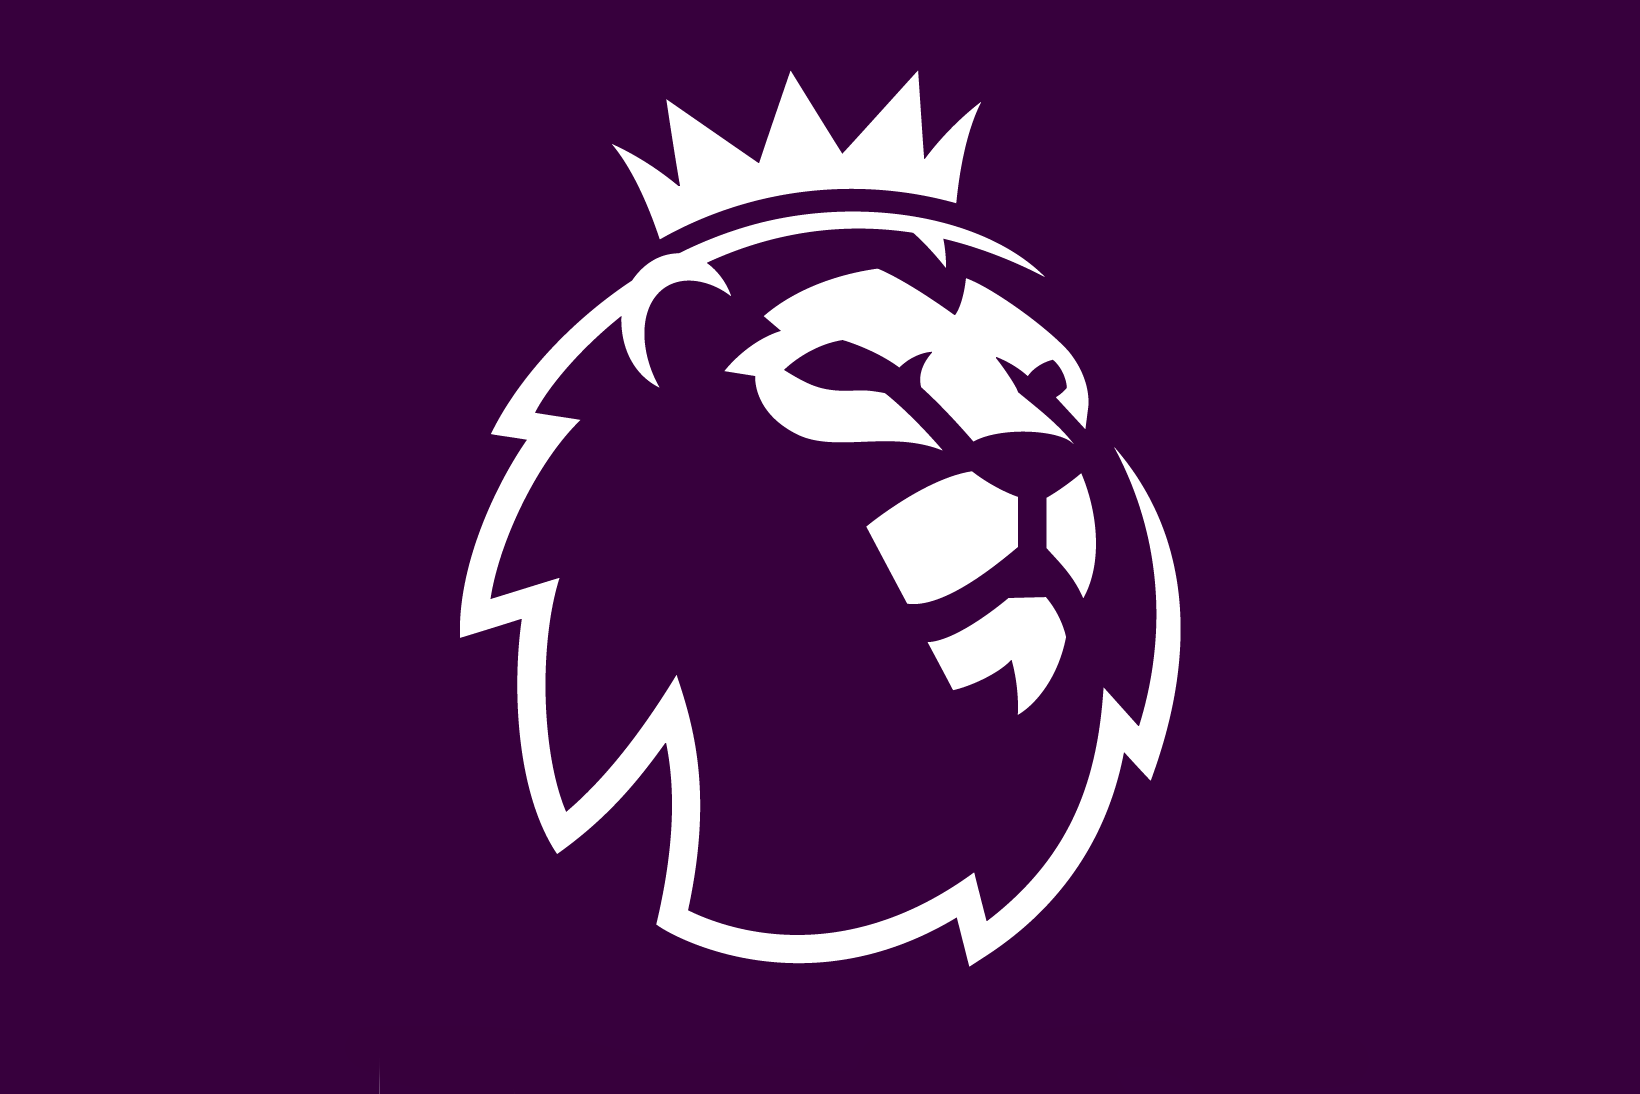
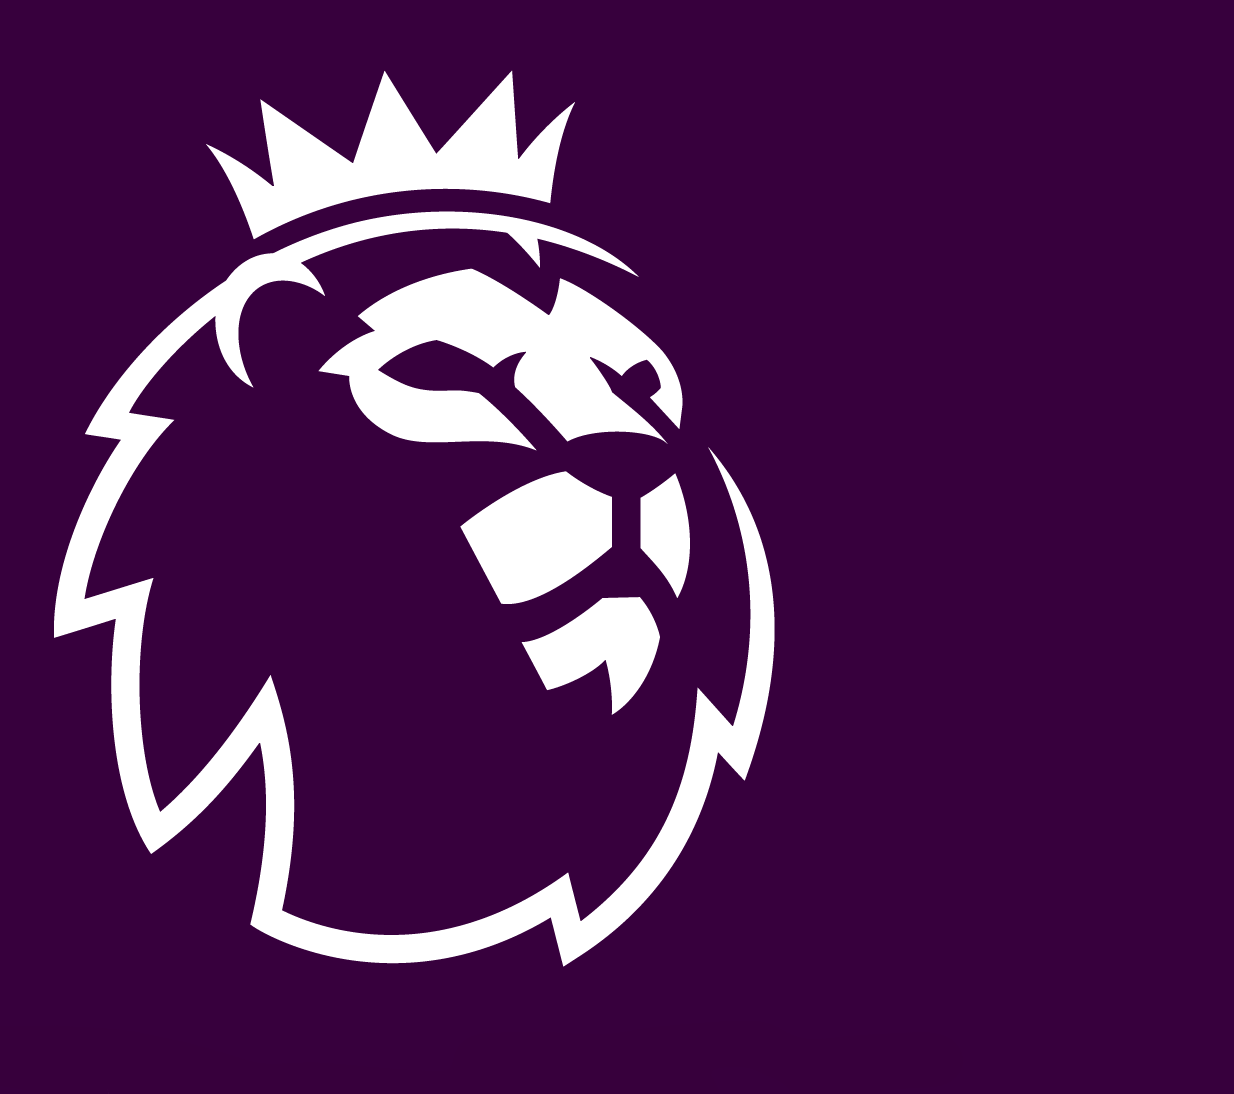
styling is progressing well

Changed region(s): [[0.0308, 0.0622, 0.7391, 0.9013]]

diff --git a/coursework-gui-javafx/out/production/coursework-gui-javafx/oop/cw/guifx/style.css b/coursework-gui-javafx/out/production/coursework-gui-javafx/oop/cw/guifx/style.css
@@ -1,0 +1,23 @@
+.table-view {
+    -fx-border-color: '#f00';
+}
+
+.table-view .column-header .label {
+    -fx-text-fill: '43134c';
+}
+
+.table-view .column-header-background {
+    -fx-background-color: '62ffa4';
+}
+
+.table-view .column-header {
+    -fx-background-color: transparent;
+}
+
+.table-view .table-cell{
+    -fx-border-color: transparent;
+}
+
+.table-view .table-cell: hover {
+    -fx-text-background-color: 'f00';
+}

diff --git a/coursework-gui-javafx/src/oop/cw/guifx/style.css b/coursework-gui-javafx/src/oop/cw/guifx/style.css
@@ -1,0 +1,23 @@
+.table-view {
+    -fx-border-color: '#f00';
+}
+
+.table-view .column-header .label {
+    -fx-text-fill: '43134c';
+}
+
+.table-view .column-header-background {
+    -fx-background-color: '62ffa4';
+}
+
+.table-view .column-header {
+    -fx-background-color: transparent;
+}
+
+.table-view .table-cell{
+    -fx-border-color: transparent;
+}
+
+.table-view .table-cell: hover {
+    -fx-text-background-color: 'f00';
+}

diff --git a/coursework-gui-javafx/src/oop/cw/guifx/GuiElements.java b/coursework-gui-javafx/src/oop/cw/guifx/GuiElements.java
@@ -1,11 +1,14 @@
 package oop.cw.guifx;
 
 import javafx.beans.property.SimpleStringProperty;
+import javafx.scene.Scene;
 import javafx.scene.control.TableColumn;
 import javafx.scene.control.TableView;
 import javafx.scene.control.cell.PropertyValueFactory;
+import javafx.scene.image.Image;
+import javafx.scene.image.ImageView;
 import javafx.scene.layout.AnchorPane;
-import javafx.scene.layout.VBox;
+import javafx.scene.layout.StackPane;
 
 import java.util.ArrayList;
 import java.util.Arrays;
@@ -13,23 +16,27 @@ import java.util.List;
 
 public class GuiElements {
     public static AnchorPane anchor(){
-        return new AnchorPane();
+        AnchorPane anchorPane = new AnchorPane();
+        anchorPane.setStyle("-fx-background-color: #37003d; -fx-border-color: #f00;");
+        return anchorPane;
     }
 
-    public static VBox vbox(int minWidth) {
-        VBox vBox = new VBox();
-        vBox.setMinWidth(minWidth);
-        return vBox;
+    public static StackPane stackPane(int width, int height) {
+        StackPane stackPane = new StackPane();
+        stackPane.setMinHeight(height);
+        stackPane.setMinWidth(width);
+        return stackPane;
     }
 
-    private static TableColumn<FootballClub, String> tableColumns(TableView<FootballClub> tableView, String columnName, double columnWidthMultiplier) {
-        TableColumn<FootballClub, String> column = new TableColumn<>(columnName);
-        column.prefWidthProperty().bind(tableView.widthProperty().multiply(columnWidthMultiplier));
-        column.setResizable(false);
-        return column;
+    public Scene scene(AnchorPane anchorPane, int width, int height, String file) {
+        Scene scene = new Scene(anchorPane, width, height);
+        String css = this.getClass().getResource(file).toExternalForm();
+        scene.getStylesheets().add(css);
+        return scene;
     }
 
-    public static List<TableColumn<FootballClub, String>> generateTableColumns(TableView<FootballClub> tableView) {
+    public static List<TableColumn<FootballClub, String>> generatePointsTableColumns(TableView<FootballClub> tableView) {
+        tableView.setMinHeight(500);
         TableColumn<FootballClub, String> columnClub = GuiElements.tableColumns(tableView, "Club", 0.3);
         columnClub.setCellValueFactory(new PropertyValueFactory<>("clubName"));
 
@@ -63,7 +70,7 @@ public class GuiElements {
                 new SimpleStringProperty(String.valueOf(cellData.getValue().getFootballClubTotalStatistics().getGoalsAgainst()))
         );
 
-        TableColumn<FootballClub, String> columnGoalDifference = GuiElements.tableColumns(tableView, "GD", 0.085);
+        TableColumn<FootballClub, String> columnGoalDifference = GuiElements.tableColumns(tableView, "GD", 0.09);
         columnGoalDifference.setCellValueFactory(cellData ->
                 new SimpleStringProperty(String.valueOf(cellData.getValue().getFootballClubTotalStatistics().getGoalDifference()))
         );
@@ -78,5 +85,21 @@ public class GuiElements {
                         columnGoalDifference, columnPoints
                 )
         );
+    }
+    private static TableColumn<FootballClub, String> tableColumns(TableView<FootballClub> tableView, String columnName, double columnWidthMultiplier) {
+        TableColumn<FootballClub, String> column = new TableColumn<>(columnName);
+        column.prefWidthProperty().bind(tableView.widthProperty().multiply(columnWidthMultiplier));
+        column.setResizable(false);
+        return column;
+    }
+
+    public static ImageView imageViewLay(String imageFile, int layX, int layY, int height, int width){
+        Image imageLay = new Image(imageFile);
+        ImageView imageViewLay = new ImageView(imageLay);
+        imageViewLay.setFitHeight(height);
+        imageViewLay.setFitWidth(width);
+        imageViewLay.setX(layX);
+        imageViewLay.setY(layY);
+        return imageViewLay;
     }
 }

diff --git a/coursework-gui-javafx/src/oop/cw/guifx/MainFrontend.java b/coursework-gui-javafx/src/oop/cw/guifx/MainFrontend.java
@@ -5,8 +5,9 @@ import javafx.scene.Scene;
 import javafx.scene.control.TableColumn;
 import javafx.scene.control.TableView;
 import javafx.scene.image.Image;
+import javafx.scene.image.ImageView;
 import javafx.scene.layout.AnchorPane;
-import javafx.scene.layout.VBox;
+import javafx.scene.layout.StackPane;
 import javafx.stage.Stage;
 
 import java.util.Collections;
@@ -17,15 +18,22 @@ public class MainFrontend extends Application {
     public void start(Stage primaryStage) {
         ConsoleApplication.loadData();
         List<FootballClub> allClubs = PremierLeagueManager.getAllFootballClubs();
+        GuiElements guiElements = new GuiElements();
         allClubs.sort(Collections.reverseOrder());
         primaryStage.getIcons().add(new Image("file:/C:/Users/Ammuuu/Downloads/learning/UNI/OOP-Module/Coursework/OOP-COURSEWORK/images/PL-lion.png"));
-
-        displayTable(allClubs, primaryStage);
+        displayTable(allClubs, primaryStage, guiElements);
     }
 
-    public static void displayTable(List<FootballClub> allClubs, Stage window) {
+    public static void displayTable(List<FootballClub> allClubs, Stage window, GuiElements guiElements) {
+        ImageView eplLion = GuiElements.imageViewLay("" +
+                "file:/C:/Users/Ammuuu/Downloads/learning/UNI/OOP-Module/Coursework/OOP-COURSEWORK/images/PL-lion.png", 0, 500,
+                220, 290);
+        ImageView eplText = GuiElements.imageViewLay("" +
+                        "file:/C:/Users/Ammuuu/Downloads/learning/UNI/OOP-Module/Coursework/OOP-COURSEWORK/images/PL-text.png", 200, 555,
+                100, 180);
+
         TableView<FootballClub> tableView = new TableView<>();
-        List<TableColumn<FootballClub, String>> allColumns = GuiElements.generateTableColumns(tableView);
+        List<TableColumn<FootballClub, String>> allColumns = GuiElements.generatePointsTableColumns(tableView);
 
         for (TableColumn<FootballClub, String> eachColumn : allColumns) {
             tableView.getColumns().add(eachColumn);
@@ -36,10 +44,10 @@ public class MainFrontend extends Application {
         }
 
         AnchorPane anchorPane = GuiElements.anchor();
-        VBox vbox = GuiElements.vbox(1366);
-        vbox.getChildren().add(tableView);
-        anchorPane.getChildren().add(vbox);
-        Scene scene = new Scene(anchorPane, 1366, 700);
+        StackPane stackPane = GuiElements.stackPane(1366, 500);
+        stackPane.getChildren().add(tableView);
+        anchorPane.getChildren().addAll(stackPane, eplLion, eplText);
+        Scene scene = guiElements.scene(anchorPane, 1366, 700, "style.css");
         window.setScene(scene);
         window.setTitle("PREMIER LEAGUE MANAGER");
         window.show();
